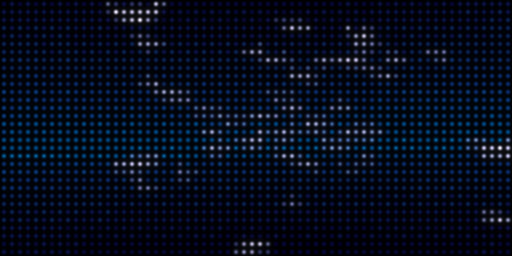
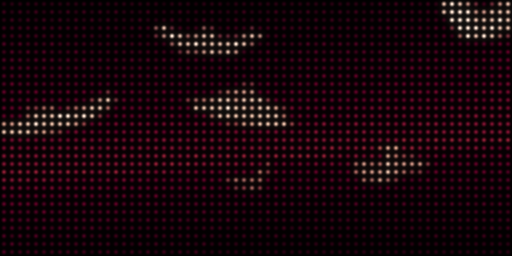
flock defaults to the owner's picture: eight large birds, the camera riding close; its README render and the gallery redone
birds 8, calm 0.27, wild 1, near 2, size 2.3, bank 1.5, hue 16, spread -38,
wheel 0, sky 0.9, terrain 0.86, beat 1.3. The ten-minute flight keeps flying
the tuning its thresholds were measured against (now spelled out as the
reference flight); the shipped defaults get their own ten-minute test with
the small flock's thresholds, and an empty-panel bound of 5% of samples (seed
29 spends 2% of its time with every bird out of shot at this close a camera).
The far-corner test holds the camera at the 6 m the corner was measured from.

Claude-Session: https://claude.ai/code/session_01KYxFs6ukLyJ3fjwJEvUCMa

diff --git a/crates/art/src/patches/flock/tests.rs b/crates/art/src/patches/flock/tests.rs
@@ -286,14 +286,31 @@ fn defaults() -> (Tuning, usize) {
     (Flock::tuning(&ctx), p.get("birds") as usize)
 }
 
+/// The tuning the long flight below was measured against: the defaults from
+/// card 168 up to 2026-09-25, when the author made the shipped default a
+/// handful of large birds with the camera riding close (`birds` 8, `near` 2,
+/// `size` 2.3, `calm` 0.27, `wild` 1). Its thresholds (fifteen birds in shot
+/// at worst, a median of thirty-five, the camera four metres from the nearest
+/// bird) are statements about *this* flock, so it keeps flying it; the shipped
+/// defaults have their own test.
+fn reference() -> (Tuning, usize) {
+    let mut p = Params::defaults(PARAMS);
+    for (id, v) in [("birds", 55.0), ("calm", 0.90), ("wild", 0.65), ("lift", 0.50), ("near", 6.0), ("lean", 1.0), ("bank", 0.8), ("terrain", 0.55), ("beat", 2.4)] {
+        p.set(PARAMS, id, v);
+    }
+    let ctx = Ctx { t: 0.0, dt: 0.0, now: 0.0, params: &p };
+    (Flock::tuning(&ctx), p.get("birds") as usize)
+}
+
 // ----------------------------------------------------------------------
 // The flight
 // ----------------------------------------------------------------------
 
-/// The one long run. Ten simulated minutes at the defaults, asked everything.
+/// The one long run. Ten simulated minutes at the reference tuning (see
+/// [`reference`]), asked everything.
 #[test]
 fn ten_minutes_of_flight() {
-    let (tune, birds) = defaults();
+    let (tune, birds) = reference();
     // Three seeds, not one. The flight is a chaotic system: a small change to
     // any parameter gives a completely different trajectory, so a promise
     // checked on a single seed is a promise about one trajectory. Tuning
@@ -485,6 +502,45 @@ fn the_smallest_flock_still_flocks() {
         assert!(run.speed_ratio <= 1.02, "speed went x{:.3} outside its band", run.speed_ratio);
         assert!(run.turn_ratio <= 1.02, "a bird turned at x{:.3} of its limit", run.turn_ratio);
         assert!(spread <= 10.0, "three birds spread {spread:.1} m apart - that is scattered, not a flock");
+    }
+}
+
+/// The shipped defaults since 2026-09-25: eight birds, drawn large, the camera
+/// two metres off the nearest, quick to change its mind. Fewer birds and a
+/// closer seat than the reference flight, so its thresholds are the small
+/// flock's: the physics holds, most of the flock stays on the panel, and it
+/// does not scatter.
+#[test]
+fn the_shipped_defaults_still_flock() {
+    let (tune, birds) = defaults();
+    for seed in [11u64, 29, 404] {
+        let run = fly(seed, 600.0, &tune, birds);
+        let in_min = *run.in_frame.iter().min().expect("samples");
+        let in_med = median_usize(&run.in_frame);
+        let empty = run.in_frame.iter().filter(|n| **n == 0).count();
+        let spread = percentile(&run.spread, 0.5);
+        eprintln!(
+            "flock, 10 min, {birds} birds (the defaults), seed {seed}: \
+             in frame min {in_min} median {in_med}, empty {empty} of {} samples, seat p95 {:.1} m, spread {spread:.1} m, \
+             speed x{:.3}, turn rate x{:.3}, clearance {:.1} m (camera {:.1} m)",
+            run.in_frame.len(),
+            percentile(&run.seat, 0.95),
+            run.speed_ratio,
+            run.turn_ratio,
+            run.clearance,
+            run.cam_clearance,
+        );
+        // With the camera two metres off the nearest bird and the view
+        // leaning hard into turns, a moment with every bird out of shot does
+        // happen (seed 29: 2% of samples); what must not happen is an empty
+        // panel as a habit.
+        assert!(empty * 20 <= run.in_frame.len(), "the panel was empty {empty} of {} samples", run.in_frame.len());
+        assert!(in_med * 2 >= birds, "median {in_med} of {birds} in frame is not much of a flock");
+        assert!(run.clearance >= 0.0, "a bird was {:.2} m inside a blob", -run.clearance);
+        assert!(run.cam_clearance >= 0.0, "the camera was {:.2} m inside a blob", -run.cam_clearance);
+        assert!(run.speed_ratio <= 1.02, "speed went x{:.3} outside its band", run.speed_ratio);
+        assert!(run.turn_ratio <= 1.02, "a bird turned at x{:.3} of its limit", run.turn_ratio);
+        assert!(spread <= 12.0, "{birds} birds spread {spread:.1} m apart - that is scattered, not a flock");
     }
 }
 
@@ -748,6 +804,12 @@ fn the_far_corner_of_both_controls_still_fits() {
         params.set(PARAMS, "scheme", scheme);
         params.set(PARAMS, "birds", param_spec("birds").max);
         params.set(PARAMS, "size", param_spec("size").max);
+        // The corner is birds x size. The camera distance is a third axis:
+        // at the shipped `near` of 2 m (since 2026-09-25) 150 birds at size 3
+        // are a wall that fills the frame and a third of the frames go
+        // approximated - noise, and the fallback's job. This holds the
+        // camera at the 6 m the corner was measured from.
+        params.set(PARAMS, "near", 6.0);
         if scheme > 0.5 {
             params.set(PARAMS, "hue", 35.0);
             params.set(PARAMS, "spread", 95.0);

diff --git a/crates/art/src/patches/flock/mod.rs b/crates/art/src/patches/flock/mod.rs
@@ -51,23 +51,23 @@ pub const DEF: PatchDef = PatchDef {
 };
 
 const PARAMS: &[ParamSpec] = &[
-    param("birds", "How many birds", 3.0, 150.0, 1.0, 55.0),
+    param("birds", "How many birds", 3.0, 150.0, 1.0, 8.0),
     param("pace", "How fast the flight moves (lower is slower, dreamier)", 0.15, 2.0, 0.05, 0.7),
-    param("calm", "How wide and slow the turns are", 0.0, 1.0, 0.01, 0.90),
-    param("wild", "How often it changes its mind", 0.0, 1.0, 0.01, 0.65),
+    param("calm", "How wide and slow the turns are", 0.0, 1.0, 0.01, 0.27),
+    param("wild", "How often it changes its mind", 0.0, 1.0, 0.01, 1.0),
     param("lift", "How much of the motion is vertical", 0.0, 1.0, 0.01, 0.50),
-    param("near", "How close the camera rides (m)", 2.0, 16.0, 0.5, 6.0),
-    param("size", "How big the birds are drawn (a longer lens, not a closer camera)", 0.5, 3.0, 0.1, 1.0),
+    param("near", "How close the camera rides (m)", 2.0, 16.0, 0.5, 2.0),
+    param("size", "How big the birds are drawn (a longer lens, not a closer camera)", 0.5, 3.0, 0.1, 2.3),
     param("lean", "How far the birds lean into a turn", 0.0, 2.0, 0.05, 1.0),
-    param("bank", "How far the view leans into a turn", 0.0, 1.5, 0.05, 0.8),
+    param("bank", "How far the view leans into a turn", 0.0, 1.5, 0.05, 1.5),
     choice("backdrop", "What is behind the birds", BACKDROPS, 0.0),
     choice("scheme", "Light birds or dark silhouettes", SCHEMES, 0.0),
-    param("hue", "Sky colour", 0.0, 360.0, 1.0, 250.0),
-    param("spread", "How much the colour shifts, horizon to zenith", -150.0, 150.0, 1.0, 40.0),
-    param("wheel", "How fast the colour rotates (degrees a minute)", 0.0, 120.0, 1.0, 5.0),
-    param("sky", "How bright the sky is", 0.3, 1.3, 0.01, 1.0),
-    param("terrain", "How much unseen scenery makes them swerve", 0.0, 1.0, 0.01, 0.55),
-    param("beat", "How fast the wings beat (Hz)", 0.5, 6.0, 0.1, 2.4),
+    param("hue", "Sky colour", 0.0, 360.0, 1.0, 16.0),
+    param("spread", "How much the colour shifts, horizon to zenith", -150.0, 150.0, 1.0, -38.0),
+    param("wheel", "How fast the colour rotates (degrees a minute)", 0.0, 120.0, 1.0, 0.0),
+    param("sky", "How bright the sky is", 0.3, 1.3, 0.01, 0.90),
+    param("terrain", "How much unseen scenery makes them swerve", 0.0, 1.0, 0.01, 0.86),
+    param("beat", "How fast the wings beat (Hz)", 0.5, 6.0, 0.1, 1.3),
 ];
 
 /// What is behind the birds (the author, 2026-09-20): the whole sky; nothing
@@ -562,7 +562,7 @@ impl Patch for Flock {
 /// surface rather than a wing's line, and how wide before it has all of it.
 ///
 /// **The level of detail is decided by projected span, never by `size`.** At
-/// the default 55 birds the far side of the flock is two or three pixels
+/// 55 birds (the default until 2026-09-25; now 8, drawn large) the far side of the flock is two or three pixels
 /// across and the nearest is seven or eight: below [`AREA.0`] the model is
 /// exactly card 168's skeleton, so the picture the author said "this is great"
 /// about is the picture that still comes out. The surface grows in over the
